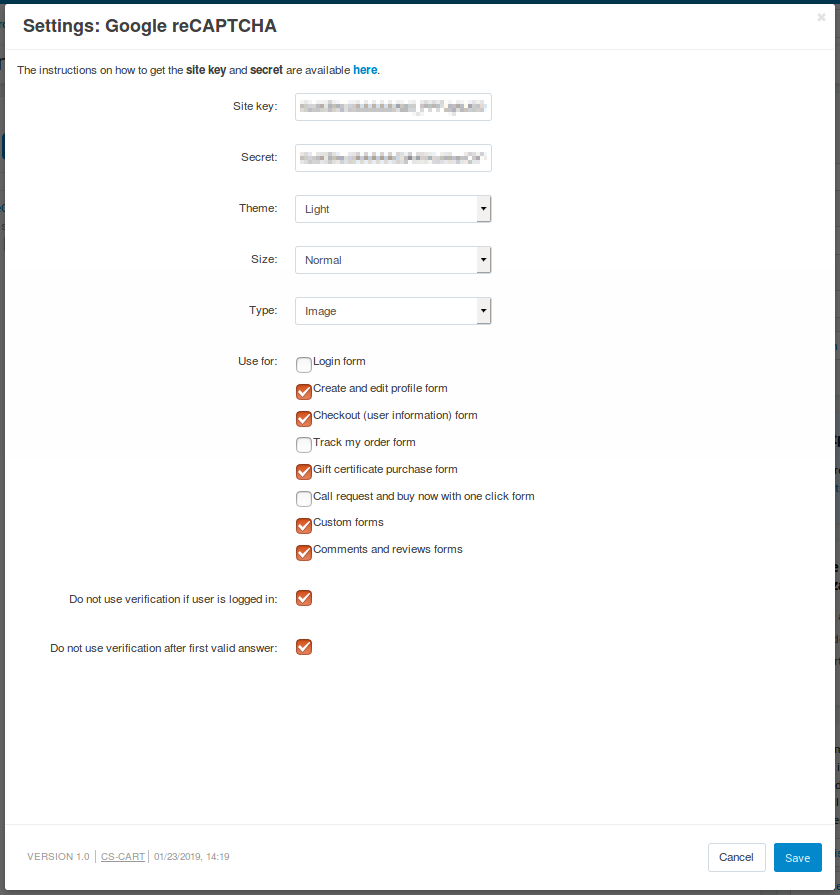
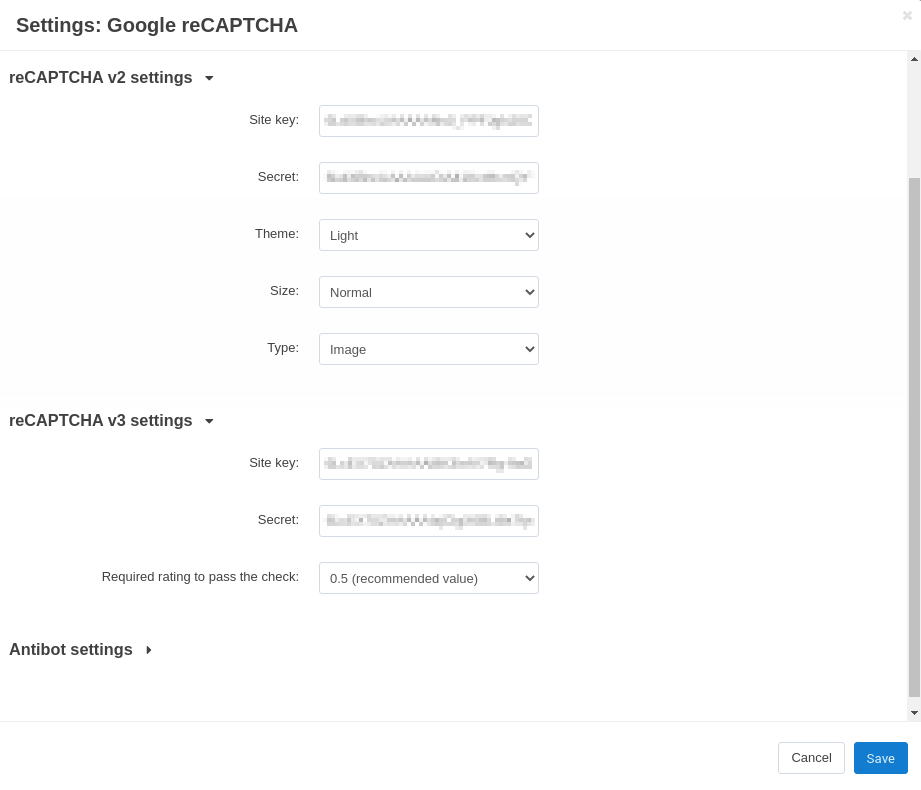
reCAPTCHA renewed

Changed region(s): [[0.0, 0.0, 1.0, 1.0], [0.5571, 0.7291, 0.5881, 0.7595], [0.2786, 0.5772, 0.3095, 0.6076]]

diff --git a/ru/user_guide/addons/google_recaptcha/configure_recaptcha.rst b/ru/user_guide/addons/google_recaptcha/configure_recaptcha.rst
@@ -11,33 +11,51 @@
 
 #. Появится всплывающее окно с настройками модуля:
 
-   * **Site key** (ключ сайта) — один из двух обязательных реквизитов; нужен для отображения виджета reCAPTCHA в магазине.
+   * **Настройки reCAPTCHA v2:**
 
-   * **Secret** — один из двух обязательных реквизитов; магазин использует его, чтобы подключиться к серверу reCAPTCHA и проверить, является ли пользователь ботом. В целях безопасности Google рекомендует никому не сообщать свой secret.
+     * **Site key (Ключ сайта)** — один из двух обязательных реквизитов; нужен для отображения виджета reCAPTCHA в магазине.
 
-     *Примечания:*
+     * **Secret (Секрет)** — один из двух обязательных реквизитов; магазин использует его, чтобы подключиться к серверу reCAPTCHA и проверить, является ли пользователь ботом. В целях безопасности Google рекомендует никому не сообщать свой secret.
 
-     * Получить site key и secret можно `на этой странице <https://www.google.com/recaptcha/admin>`_. Вам понадобится ввести доменное имя своего магазина; подробности можно узнать `в статье от Google на английском языке <https://developers.google.com/recaptcha/docs/domain_validation>`_.
+       *Примечания:*
 
-     * При создании site key и secret обратите внимание, что модуль поддерживает только **reCAPTCHA v2: Checkbox**.
+       * Получить site key и secret можно `на этой странице <https://www.google.com/recaptcha/admin>`_. Вам понадобится ввести доменное имя своего магазина; подробности можно узнать `в статье от Google на английском языке <https://developers.google.com/recaptcha/docs/domain_validation>`_.
 
-     * Если у вас CS-Cart с несколькими витринами, и вы хотите использовать Google reCAPTCHA на всех, то вам понадобится только одна пара site key и secret. Просто укажите несколько доменов на стороне Google при создании site key и secret.
+       * Если у вас CS-Cart с несколькими витринами, и вы хотите использовать Google reCAPTCHA на всех, то вам понадобится только одна пара site key и secret. Просто укажите несколько доменов на стороне Google при создании site key и secret.
 
-     * Если вы :doc:`встраиваете магазин на страницу Facebook </user_guide/look_and_feel/layouts/widget_mode/facebook_app>`, укажите ``widget.cart-services.com`` как один из доменов. Иначе reCAPTCHA не будет работать во встроенном магазине.
+       * Если вы :doc:`встраиваете магазин на страницу Facebook </user_guide/look_and_feel/layouts/widget_mode/facebook_app>`, укажите ``widget.cart-services.com`` как один из доменов. Иначе reCAPTCHA не будет работать во встроенном магазине.
+       
+     * **Оформление** — цвета виджета reCAPTCHA в вашем магазине. Можно выбрать *Светлое* (Light) или *Тёмное* (Dark) оформление. Примеры того, как виджет выглядит в разном оформлении, можно найти в `вопроснике по Google reCAPTCHA <https://developers.google.com/recaptcha/docs/faq#can-i-customize-the-recaptcha-widget>`_.
 
-   * **Оформление** — цвета виджета reCAPTCHA в вашем магазине. Можно выбрать *Светлое* (Light) или *Тёмное* (Dark) оформление. Примеры того, как виджет выглядит в разном оформлении, можно найти в `вопроснике по Google reCAPTCHA <https://developers.google.com/recaptcha/docs/faq#can-i-customize-the-recaptcha-widget>`_.
+     * **Размер** — размер виджета reCAPTCHA в важем магазине. Можно выбрать *Обычный* или *Компактный* размер.
 
-   * **Размер** — размер виджета reCAPTCHA в важем магазине. Можно выбрать *Обычный* или *Компактный* размер.
+     * **Тип** — тип теста CAPTCHA, который будет предложен пользователю, если нужно дополнительное подтверждение, что пользователь — не бот. Тест может быть на распознавание изображений (*Изображение*) или звуковой (*Аудио*).
 
-   * **Тип** — тип теста CAPTCHA, который будет предложен пользователю, если нужно дополнительное подтверждение, что пользователь — не бот. Тест может быть на распознавание изображений (*Изображение*) или звуковой (*Аудио*).
+   * **Настройки reCAPTCHA v3:**
+   
+     .. important::
+         
+         Поддержка *reCAPTCHA v3* добавлена, начиная с версии CS-Cart 4.12.1. Данная версия невидима для пользователей магазинов и осуществляет проверку и защиту от ботов в фоновом режиме. Вы также можете использовать *Google reCAPTCHA v3*, если на странице вашего магазина недостаточно места для размещения виджета *reCAPTCHA v2: Checkbox*.
+   
+     * **Site key (Ключ сайта)** — один из двух обязательных реквизитов.
 
-   * **Использовать для** — места, где будут появляться тесты CAPTCHA; отметьте галочками те места, где должны появляться тесты.
+     * **Secret (Секрет)** — один из двух обязательных реквизитов; магазин использует его, чтобы подключиться к серверу reCAPTCHA и проверить, является ли пользователь ботом. В целях безопасности Google рекомендует никому не сообщать свой secret.
+     
+       .. note::
+     
+           Обратите внимание, что *Site key (Ключ сайта)* и *Secret (Секрет)* для **reCAPTCHA v2: Checkbox** и **reCAPTCHA v3** принимают разные значения, и получать их необходимо отдельно для каждой версии reCAPTCHA.
+     
+     * **Минимальный рейтинг, чтобы пройти проверку** — установите значение от *0.1* до *0.9*, где *0.1* - самая лёгкая проверка, а *0.9* - самая высокая степень проверки, которую может не пройти даже человек. Рекомендуемое значение для данного поля — *0.5*.
+     
+   * **Настройки защиты от ботов** — выберите, в каком месте вашего магазина и какую защиту от ботов вы хотите использовать. Вы можете использовать *reCAPTCHA v2: Checkbox* и *reCAPTCHA v3* одновременно в разных формах.
 
-   * **Отключить антибот для авторизованных пользователей** — если поставить галочку, то пользователю, вошедшему в свою учетную запись, не придется подтверждать, что он не бот. 
+     * **Отключить антибот для авторизованных пользователей** — если поставить галочку, то пользователи, вошедшие в свою учетную запись, не будут проверяться. 
 
-   * **Отключить антибот после первого правильного ответа** — если поставить галочку, то пользователю понадобится подтвердить, что он не бот, только один раз за сессию.
+     * **Отключить антибот после первого правильного ответа** — если поставить галочку, то пользователю понадобится подтвердить, что он не бот, только один раз за сессию.
+   
+#. (опционально) На вкладке **Страны-исключения** выберите страны, не будет использоваться Google reCAPTCHA.
 
-#. Нажмите кнопку **Сохранить**. После этого тесты CAPTCHA должны появиться в выбранных местах и работать так, как указано в настройках.
+#. Нажмите кнопку **Сохранить**.
 
    .. fancybox:: img/google_recaptcha_settings.png
        :alt: Настройки модуля Google reCAPTCHA.

diff --git a/en/user_guide/addons/google_recaptcha/configure_recaptcha.rst b/en/user_guide/addons/google_recaptcha/configure_recaptcha.rst
@@ -12,33 +12,51 @@ How To: Set up Google reCAPTCHA in Your Store
 
 #. A pop-up window will open. Specify the add-on's settings there:
 
-   * **Site key**—one of the two required credentials; it is used to display the reCAPTCHA widget in your store.
+   * **reCAPTCHA v2 settings:**
 
-   * **Secret**—one of the two required credentials; it authorizes communication between your store and the reCAPTCHA server to verify a user's response. For security purposes, Google asks not to tell your secret to anyone else.
+     * **Site key**—one of the two required credentials; it is used to display the reCAPTCHA widget in your store.
 
-     *Notes:*
+     * **Secret**—one of the two required credentials; it authorizes communication between your store and the reCAPTCHA server to verify a user's response. For security purposes, Google asks not to tell your secret to anyone else.
 
-     * To get site key and secret, go to `https://www.google.com/recaptcha/admin <https://www.google.com/recaptcha/admin>`_. You'll need to provide the domain name of your store; for more information, please refer to `this article by Google <https://developers.google.com/recaptcha/docs/domain_validation>`_.
+       *Notes:*
 
-     * When creating a site key and secret, please note that the add-on currently supports only **reCAPTCHA v2: Checkbox**.
+       * You can get the site key and secret `here <https://www.google.com/recaptcha/admin>`_. You'll need to provide the domain name of your store; for more information, please refer to `this article by Google <https://developers.google.com/recaptcha/docs/domain_validation>`_.
 
-     * If you use multiple storefronts in CS-Cart and want to use Google reCAPTCHA for all of them, then you will only need one site key and secret. Just specify multiple domains when setting up your site key and secret on the Google end.
+       * If you use multiple storefronts in CS-Cart and want to use Google reCAPTCHA for all of them, then you will only need one site key and secret. Just specify multiple domains when setting up your site key and secret on the Google end.
 
-     * If you :doc:`embed your store into a Facebook page </user_guide/look_and_feel/layouts/widget_mode/facebook_app>`, please specify ``widget.cart-services.com`` as one of the domains. Otherwise reCAPTCHA won't work in your embedded store.
+       * If you :doc:`embed your store into a Facebook page </user_guide/look_and_feel/layouts/widget_mode/facebook_app>`, please specify ``widget.cart-services.com`` as one of the domains. Otherwise reCAPTCHA won't work in your embedded store.
 
-   * **Theme**—the color of the reCAPTCHA widget in your store; you can choose either *Light*, or *Dark*. Please refer to `Google reCAPTCHA FAQ <https://developers.google.com/recaptcha/docs/faq#can-i-customize-the-recaptcha-widget>`_ to see what those two themes look like.
+     * **Theme**—the color of the reCAPTCHA widget in your store; you can choose either *Light*, or *Dark*. Please refer to `Google reCAPTCHA FAQ <https://developers.google.com/recaptcha/docs/faq#can-i-customize-the-recaptcha-widget>`_ to see what those two themes look like.
 
-   * **Size**—the size of the reCAPTCHA widget in your store; you can choose between *Normal* and *Compact*. 
+     * **Size**—the size of the reCAPTCHA widget in your store; you can choose between *Normal* and *Compact*. 
 
-   * **Type**—the type of the CAPTCHA that a user must solve when it is necessary to confirm that the user is not a bot; you can choose between *Image* or *Audio*.
+     * **Type**—the type of the CAPTCHA that a user must solve when it is necessary to confirm that the user is not a bot; you can choose between *Image* or *Audio*.
+     
+   * **reCAPTCHA v3 settings:**
+   
+     .. important::
+     
+         The add-on supports *reCAPTCHA v3* starting with version 4.12.1 of CS-Cart and Multi-Vendor. This reCAPTCHA version is invisible for customers and protects your store by working in the background. You can also use *reCAPTCHA v3* if there is no place for a *reCAPTCHA v2: Checkbox* widget on the page of your store.
+         
+     * **Site key**—one of the two required credentials.
 
-   * **Use for**—the places where CAPTCHA will appear; tick a checkbox corresponding to a place to make CAPTCHA appear there.
+     * **Secret**—one of the two required credentials; it authorizes communication between your store and the reCAPTCHA server to verify a user's response. For security purposes, Google asks not to tell your secret to anyone else.
+     
+       .. note::
+     
+           Please note, that the *Site key* and *Secret* values for *reCAPTCHA v2: Checkbox* и *reCAPTCHA v3* are different. You have to get them for each reCAPTCHA version induvidually.
+         
+     * **Required rating to pass the check**—set the value from *0.1* to *0.9*, where *0.1* is the simplest checking, and *0.9* is the highest level of tests, that even some humans can't pass. The recommended value in this field is *0.5*.
+     
+   * **Antibot settings**—choose what kind of antibot protection you want to use in your store and where to use it. You can use *reCAPTCHA v2: Checkbox* и *reCAPTCHA v3* at the same time in the different forms.
 
-   * **Do not use verification if user is logged in**—if you tick this checkbox, the customers who are logged in won't have to confirm that they are not bots. 
+     * **Do not use verification if user is logged in**—if you tick this checkbox, the customers who are logged in won't have to confirm that they are not bots. 
 
-   * **Do not use verification after first valid answer**—if you tick this checkbox, a customer will have to confirm that he or she is not a bot only once per session. 
+     * **Do not use verification after first valid answer**—if you tick this checkbox, a customer will have to confirm that he or she is not a bot only once per session. 
 
-#. Click **Save**. Now CAPTCHA tests should behave according to the settings and appear in the places you specified.
+#. (optional) On the **Excluded countries** tab choose countries where Google reCAPTACHA will be disabled.
+
+#. Click **Save**.
 
    .. image:: img/google_recaptcha_settings.png
        :align: center
